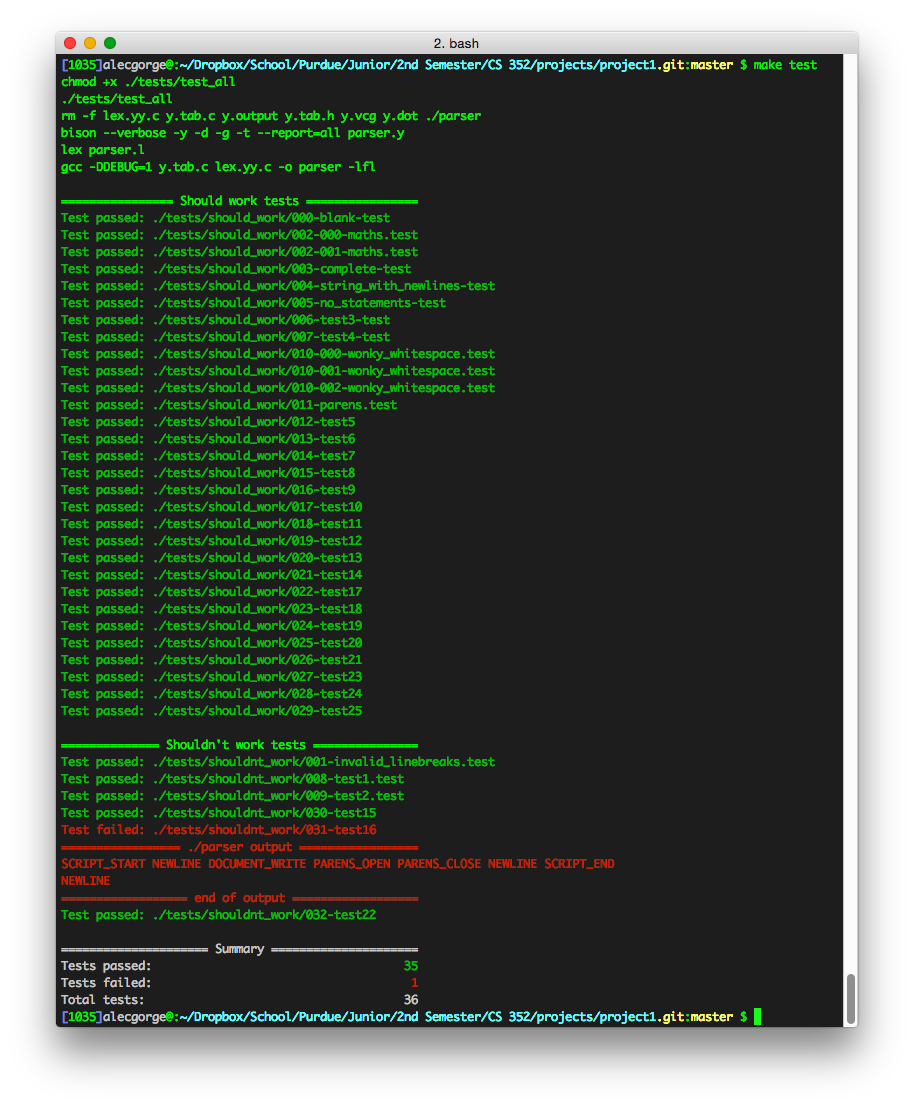
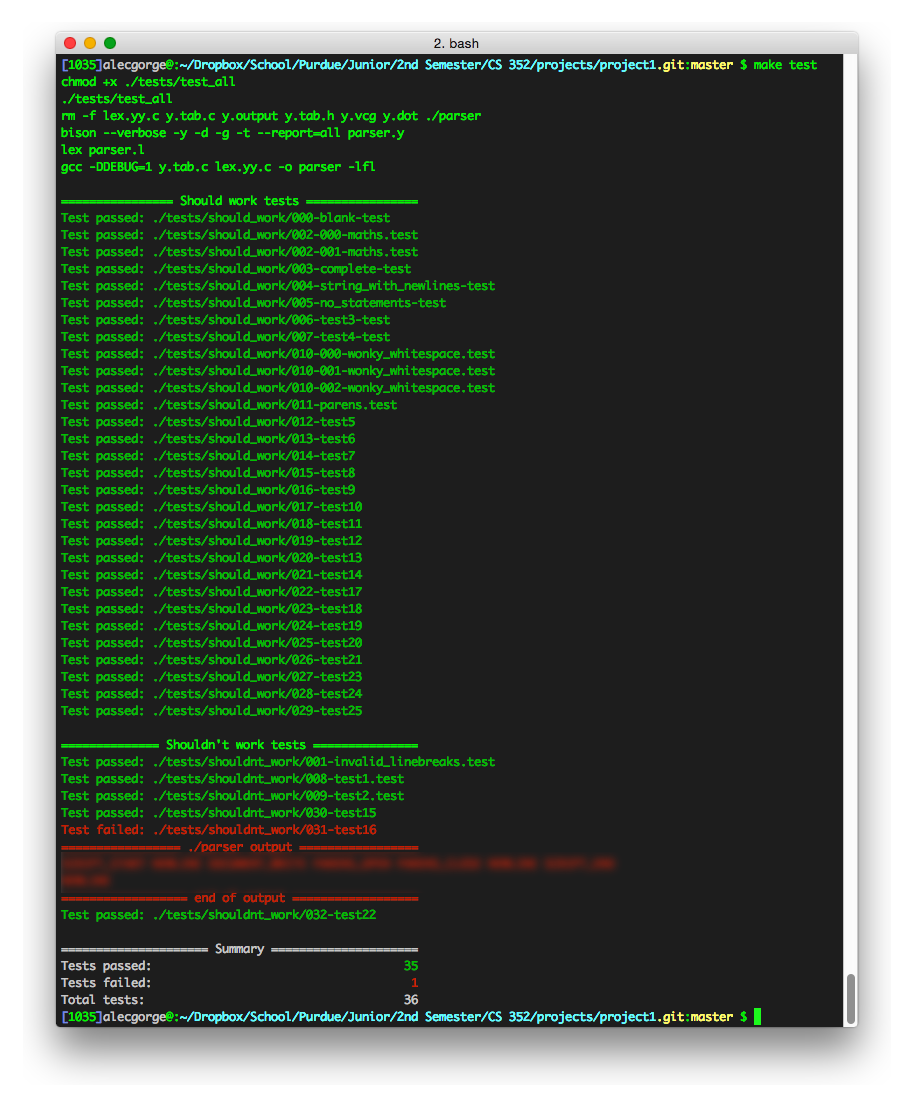
update contribution guides

Changed region(s): [[0.0613, 0.7678, 0.674, 0.7986]]

diff --git a/README.md b/README.md
@@ -4,6 +4,8 @@ This test harness works slightly differently than the one provided by the TA.
 
 ![Screenshot of possible output](https://cdn.rawgit.com/alecgorge/cs352-tests/master/screenshot.png)
 
+*Some text is blurred because it is specific to how I lex/parse*
+
 ## Features
 
 * Lists passed and failed tests
@@ -55,6 +57,8 @@ This test harness works slightly differently than the one provided by the TA.
 ## Adding new tests
 
 Submit new tests by forking this repo and submitting a pull request! All tests that should fail go in the `shouldnt_work` folder and all tests that should pass go in the `should_work` folder.
+
+All files in the directory are used for tests, I just like numbering them in a consistent manner. Try to give the tests useful names.
 
 ## Notes
 
